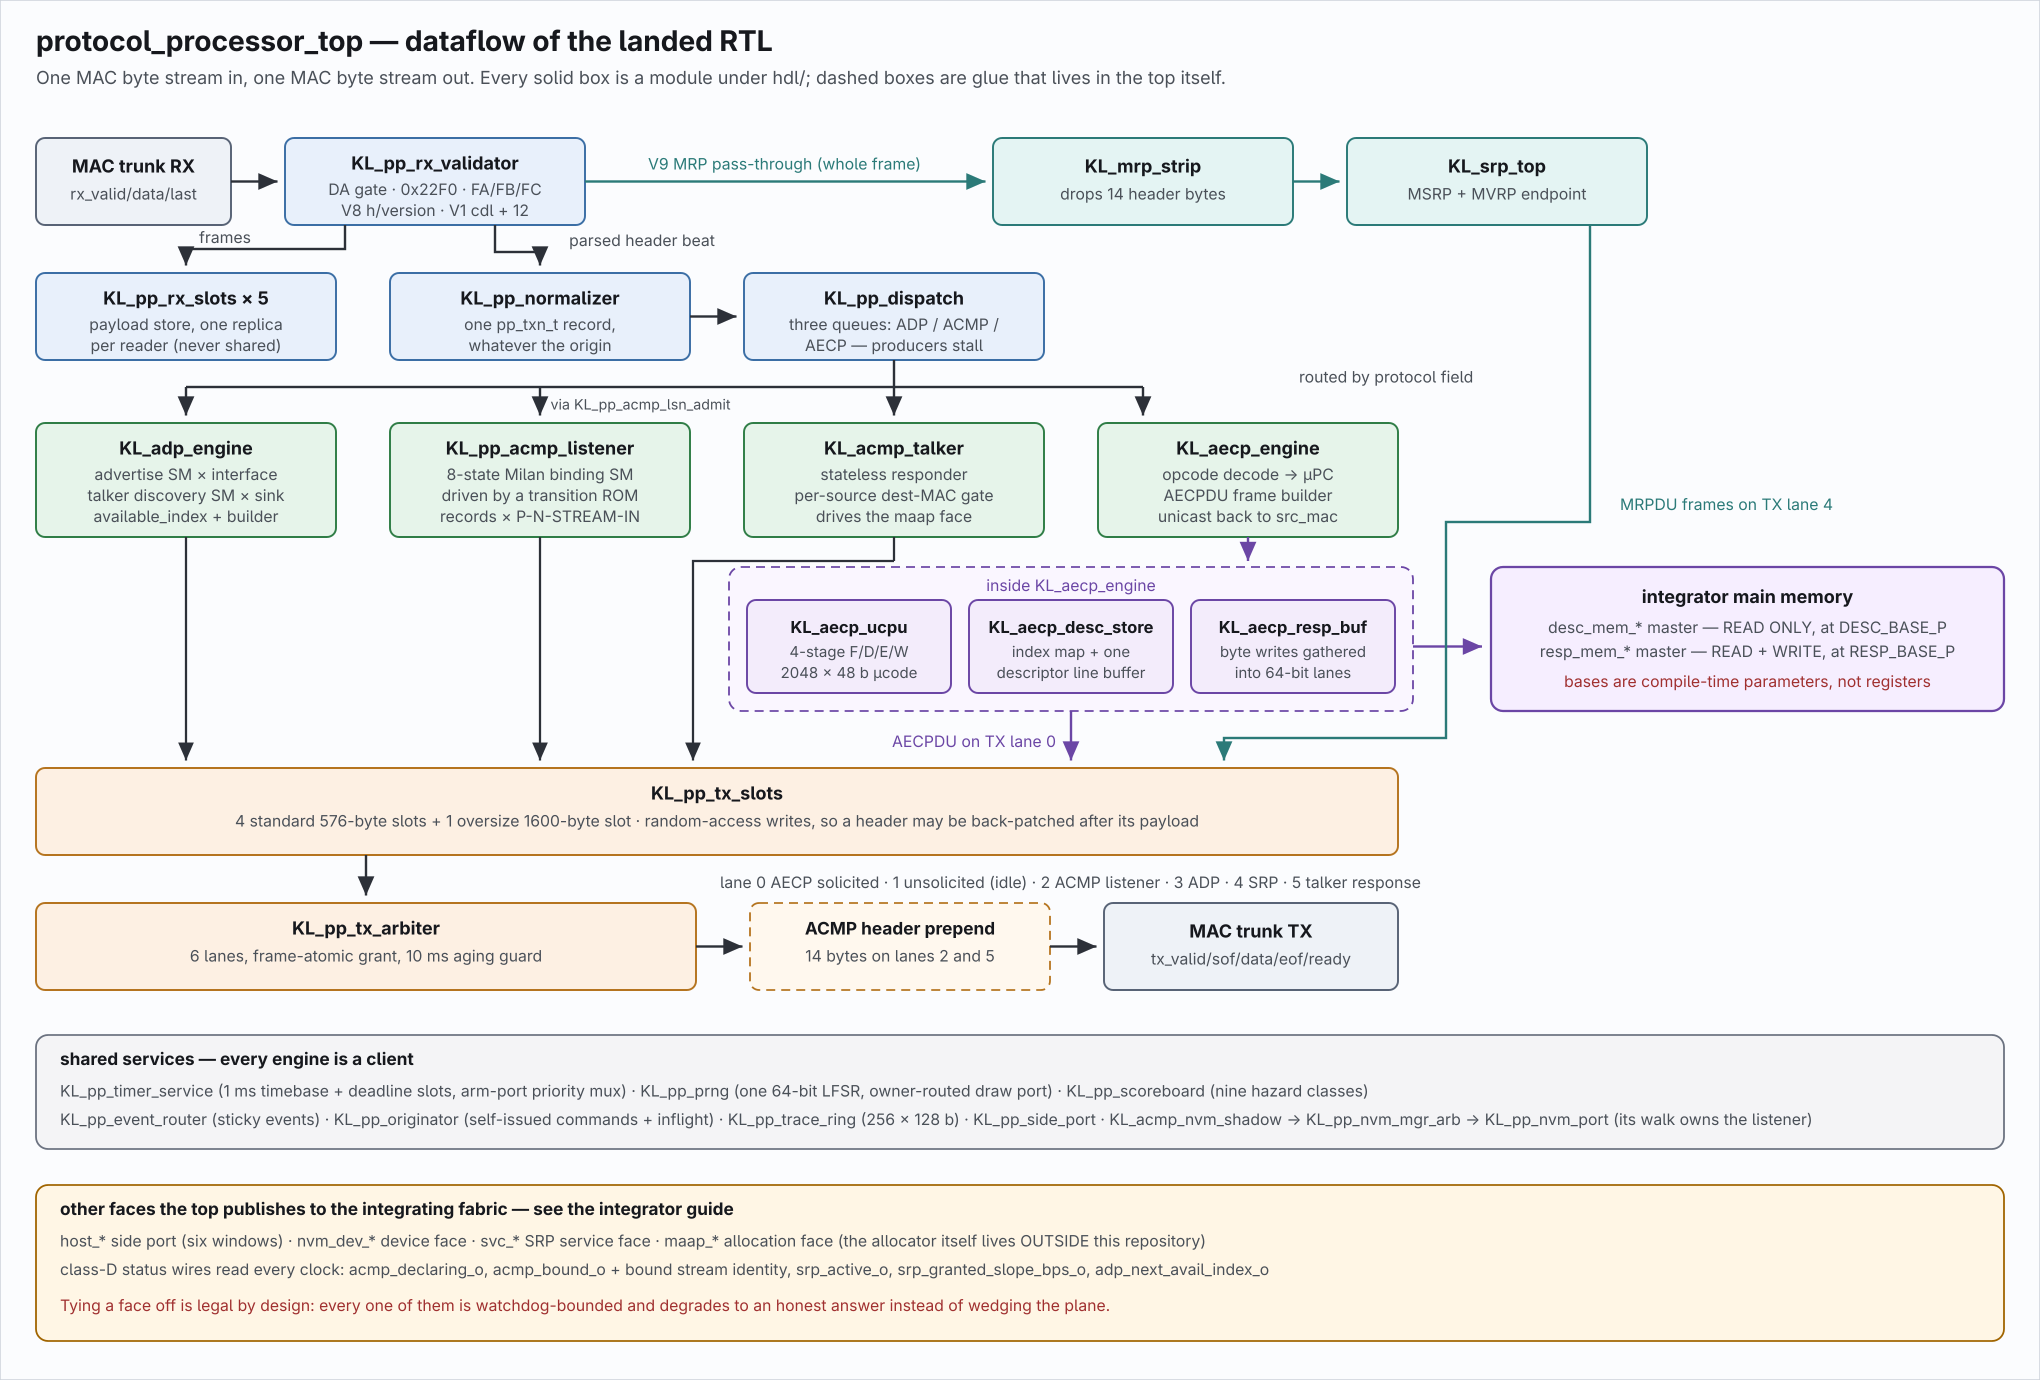
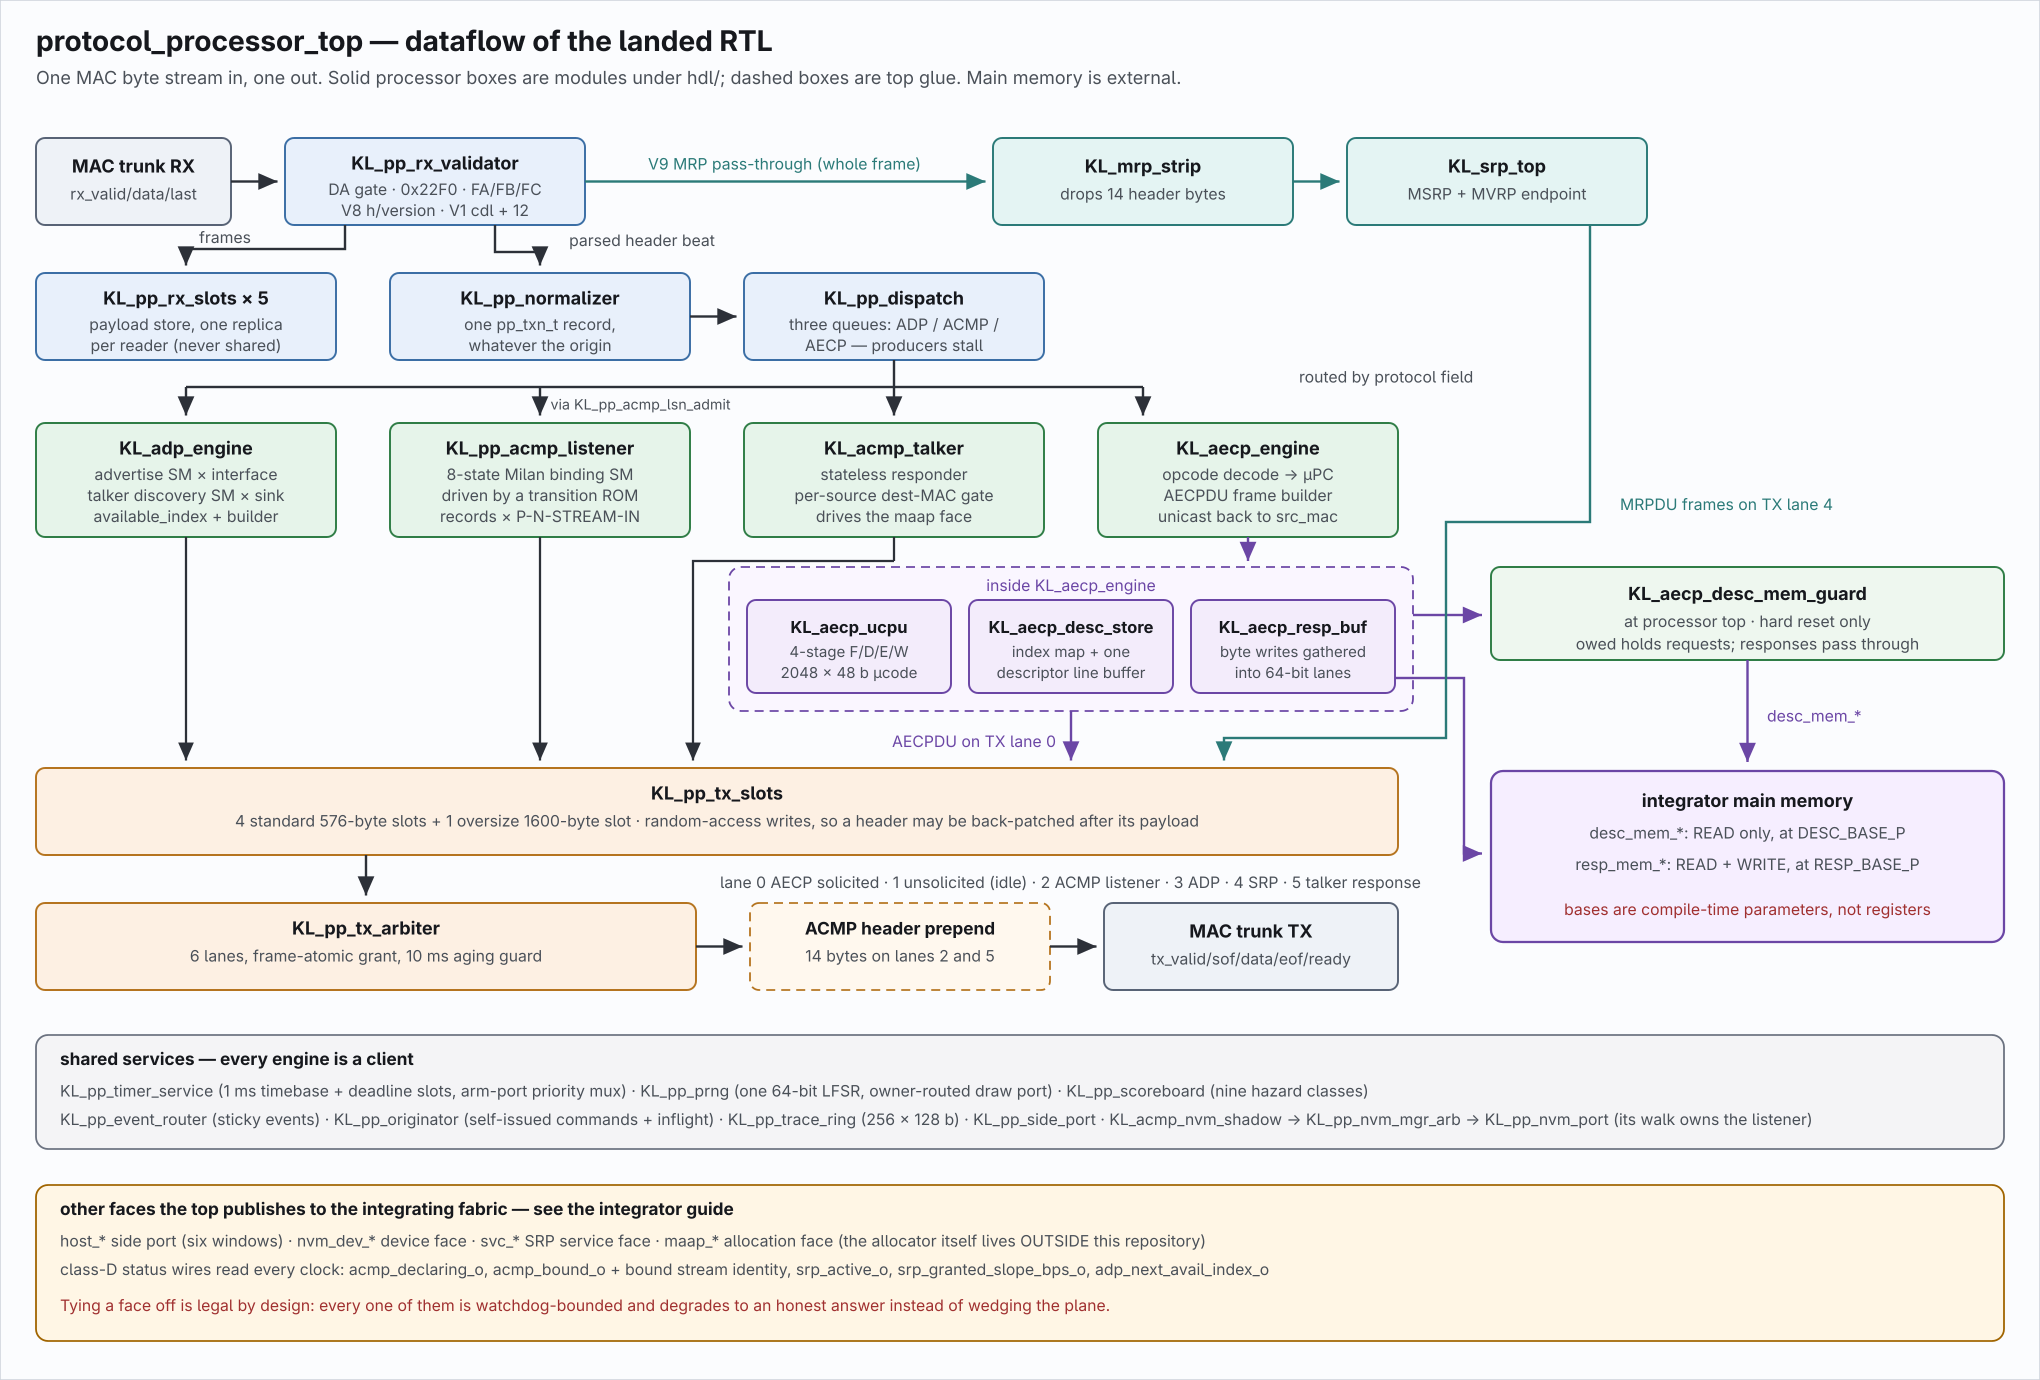
Refresh descriptor memory diagrams and pin guard acceptance priority

diff --git a/tb/desc_mem_guard/sim_main.cpp b/tb/desc_mem_guard/sim_main.cpp
@@ -323,6 +323,14 @@ static void handshake_case(TestResults& results) {
     CHECK(d.unit_rsp_valid_o && d.unit_rsp_err_o && !d.unit_rsp_last_o
           && d.unit_rsp_data_o == INPUT1 && d.mem_rsp_ready_o,
           "response path filtered a beat while no debt was owed");
+
+    // A stray terminal beat is outside the memory contract. Even if one
+    // coincides with acceptance, it must not erase the new request's debt.
+    d.unit_req_valid_i = 1;
+    d.mem_rsp_last_i = 1;
+    d.mem_rsp_err_i = 0;
+    tick();
+    CHECK(d.debt_o, "request acceptance must win over a coincident stray terminal beat");
 }
 
 int main(int argc, char** argv) {

diff --git a/docs/guides/integrator.md b/docs/guides/integrator.md
@@ -133,10 +133,10 @@ The guard's own module port `debt_o` is the **D3 interface**
 ([memory contract](../architecture/07_memory_maps.md#sec-desc-memory)). It is not
 exposed by `protocol_processor_top`; the D3 lane will add that routing together
 with the parent consumer changes, keeping the current top-level interface intact.
-Connect the guard's synchronous active-low reset to the **hard reset only**.
-A store-only reset, future rollback reset, or entity disable must not clear it.
-A hard reset must also flush the memory path, including any CDC queues, so no
-pre-reset response can arrive after debt is forgotten.
+Drive `protocol_processor_top.rst_n`, its synchronous active-low reset, only
+from a **hard reset** that also flushes the descriptor-memory path, including
+any CDC queues. Never drive it from an entity disable, store-only reset, or
+future rollback reset: no pre-reset response may arrive after debt is forgotten.
 
 If a burst never terminates, the guard keeps requests held; the store's watchdog
 still answers each locate with an error in bounded time. The existing immediate

diff --git a/tb/desc_mem_guard/README.md b/tb/desc_mem_guard/README.md
@@ -22,6 +22,7 @@ The suite proves:
 - Request and response payloads pass unchanged. Only accepted requests create
   debt; nonterminal beats, invalid terminal flags and backpressured terminal
   beats cannot clear it. The next request stays held through the terminal cycle.
+  Acceptance wins over a coincident stray terminal beat when no debt was owed.
 
 The wrapper exposes the store/guard seam and provides a direct guard stimulus
 mode for handshake checks. There is no D3 writer here: owner-release policy,
